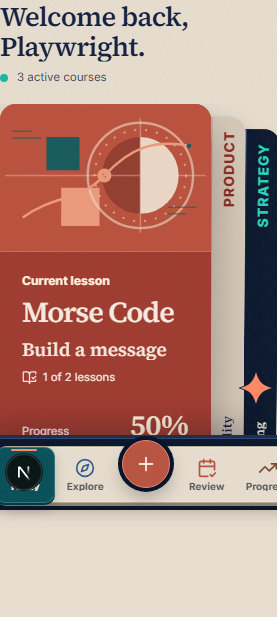
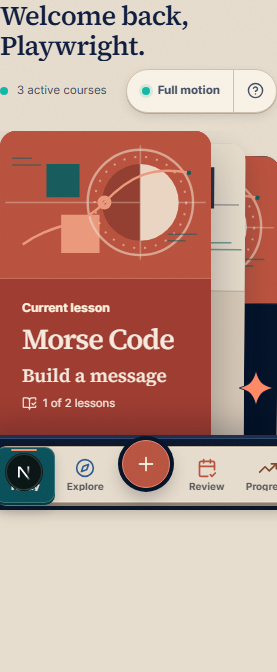
fix: keep full course cards visible

diff --git a/tests/app-shell.spec.ts b/tests/app-shell.spec.ts
@@ -515,7 +515,6 @@ test.describe("desktop application shell", () => {
       const style = getComputedStyle(card);
       const matrix = new DOMMatrixReadOnly(style.transform);
       const face = card.querySelector<HTMLElement>(".course-deck-card-face");
-      const spine = card.querySelector<HTMLElement>(".course-deck-spine");
       return {
         id: (card as HTMLElement).dataset.courseId ?? "",
         position: Number((card as HTMLElement).dataset.position),
@@ -527,7 +526,7 @@ test.describe("desktop application shell", () => {
         visibility: style.visibility,
         zIndex: Number(style.zIndex),
         scale: Math.hypot(matrix.a, matrix.b),
-        spineVisibility: spine ? getComputedStyle(spine).visibility : "hidden",
+        hasSpine: Boolean(card.querySelector(".course-deck-spine")),
         hasFullFace: Boolean(
           face?.querySelector(".course-deck-cover")
           && face.querySelector(".course-deck-card-copy h2")
@@ -566,9 +565,13 @@ test.describe("desktop application shell", () => {
       hasCourseTitle: Boolean(card.querySelector(".course-deck-card-copy h2")),
       hasProgress: Boolean(card.querySelector(".course-deck-progress")),
       hasContinue: Boolean(card.querySelector("a.course-deck-primary")),
+      hasSpine: Boolean(card.querySelector(".course-deck-spine")),
+      titleWritingMode: getComputedStyle(card.querySelector<HTMLElement>(".course-deck-card-copy h2")!).writingMode,
     })));
     expect(fullCardFaces).toHaveLength(3);
     expect(fullCardFaces.every((card) => card.hasCover && card.hasCourseTitle && card.hasProgress && card.hasContinue)).toBe(true);
+    expect(fullCardFaces.every((card) => !card.hasSpine && card.titleWritingMode === "horizontal-tb")).toBe(true);
+    await expect(page.locator(".course-deck-spine")).toHaveCount(0);
     const pile = await inspectPile();
     expect(pile).toHaveLength(3);
     expect(pile[0].left).toBeLessThan(pile[1].left);
@@ -675,7 +678,7 @@ test.describe("desktop application shell", () => {
       expect(incomingNextCard?.zIndex).toBe(3);
       expect(outgoingNextCard?.opacity ?? 1).toBeLessThan(0.99);
       expect(outgoingNextCard?.scale ?? 1).toBeLessThan(0.995);
-      expect(incomingNextCard?.spineVisibility).toBe("hidden");
+      expect(incomingNextCard?.hasSpine).toBe(false);
       expect(incomingNextCard?.hasFullFace).toBe(true);
       await expectDeckSelection(0);
       if (process.env.CAPTURE_DASHBOARD === "1" && viewport.width === 1366) {
@@ -700,6 +703,9 @@ test.describe("desktop application shell", () => {
       await page.evaluate(() => new Promise<void>((resolve) => requestAnimationFrame(() => requestAnimationFrame(() => resolve()))));
       await expect(page.locator(".course-deck-viewport")).toHaveAttribute("data-direction", "previous");
       await expectDeckSelection(1);
+      const heldPrevious = await decisionCard.boundingBox();
+      if (!heldPrevious) throw new Error("Course Deck backward-held card is not measurable.");
+      expect(Math.abs((heldPrevious.x - decisionBox.x) - (decisionBox.width * 0.15)), JSON.stringify({ decisionBox, heldPrevious, viewport })).toBeLessThan(6);
       const previousLayers = await inspectPaintedPile();
       expectDistinctOverlapLayers(previousLayers);
       expect(previousLayers.find((card) => card.id === "decision-shell-course")?.zIndex).toBe(3);
@@ -712,12 +718,16 @@ test.describe("desktop application shell", () => {
       expectDistinctOverlapLayers(previousHandoffLayers);
       const outgoingPreviousCard = previousHandoffLayers.find((card) => card.id === "decision-shell-course");
       const incomingPreviousCard = previousHandoffLayers.find((card) => card.id === "morse-shell-course");
-      expect(outgoingPreviousCard?.zIndex).toBe(0);
+      expect(outgoingPreviousCard?.zIndex).toBe(2);
       expect(incomingPreviousCard?.zIndex).toBe(3);
-      expect(outgoingPreviousCard?.opacity ?? 1).toBeLessThan(0.99);
-      expect(outgoingPreviousCard?.scale ?? 1).toBeLessThan(0.995);
-      expect(incomingPreviousCard?.spineVisibility).toBe("hidden");
+      expect(outgoingPreviousCard?.opacity ?? 0).toBeGreaterThan(0.99);
+      expect(Math.abs((outgoingPreviousCard?.scale ?? 0) - 1)).toBeLessThan(0.005);
+      expect(outgoingPreviousCard?.left ?? 0).toBeGreaterThan(incomingPreviousCard?.left ?? Number.POSITIVE_INFINITY);
+      expect(incomingPreviousCard?.hasSpine).toBe(false);
       expect(incomingPreviousCard?.hasFullFace).toBe(true);
+      if (process.env.CAPTURE_DASHBOARD === "1" && viewport.width === 1366) {
+        await page.screenshot({ path: ".impeccable/review/course-deck-stack-motion-previous-desktop.png", fullPage: true });
+      }
       await page.mouse.up();
       await waitForDeckToSettle(page);
       await expectDeckSelection(0);
@@ -1090,34 +1100,37 @@ test.describe("mobile application shell", () => {
       await expect(page.getByRole("button", { name: "Show next active course" })).toBeVisible();
       await expect(page.locator(".course-deck-card[data-position='1']")).toBeVisible();
       await expect(page.locator(".course-deck-card[data-position='2']")).toBeVisible();
-      const spineMetrics = await page.locator(".course-deck-card.is-visible").evaluateAll((cards) => {
+      const fullCardMetrics = await page.locator(".course-deck-card.is-visible").evaluateAll((cards) => {
         const sortedCards = cards
           .map((card) => ({ element: card as HTMLElement, position: Number((card as HTMLElement).dataset.position) }))
           .sort((first, second) => first.position - second.position);
-        return sortedCards.slice(1).map(({ element, position }, index) => {
-          const previousRect = sortedCards[index].element.getBoundingClientRect();
+        const activeWidth = sortedCards[0].element.offsetWidth;
+        const activeHeight = sortedCards[0].element.offsetHeight;
+        return sortedCards.map(({ element, position }, index) => {
+          const previousRect = index > 0 ? sortedCards[index - 1].element.getBoundingClientRect() : null;
           const cardRect = element.getBoundingClientRect();
-          const spine = element.querySelector<HTMLElement>(".course-deck-spine")!;
-          const title = spine.querySelector<HTMLElement>("strong")!;
-          const spineRect = spine.getBoundingClientRect();
-          const titleRect = title.getBoundingClientRect();
+          const face = element.querySelector<HTMLElement>(".course-deck-card-face")!;
+          const title = face.querySelector<HTMLElement>(".course-deck-card-copy h2")!;
           const titleStyle = getComputedStyle(title);
           return {
             position,
-            startsInExposedStrip: spineRect.left >= previousRect.right - 6,
-            containedInCard: spineRect.right <= cardRect.right + 1,
-            titleContained: titleRect.left >= spineRect.left - 1
-              && titleRect.right <= spineRect.right + 1
-              && titleRect.top >= spineRect.top - 1
-              && titleRect.bottom <= spineRect.bottom + 1,
+            hasCompleteFace: Boolean(
+              face.querySelector(".course-deck-cover")
+              && face.querySelector(".course-deck-card-copy h2")
+              && face.querySelector(".course-deck-progress")
+              && face.querySelector("a.course-deck-primary"),
+            ),
+            hasSpine: Boolean(element.querySelector(".course-deck-spine")),
+            sameDimensions: Math.abs(element.offsetWidth - activeWidth) < 1 && Math.abs(element.offsetHeight - activeHeight) < 1,
+            exposedWidth: previousRect ? cardRect.right - previousRect.right : cardRect.width,
             writingMode: titleStyle.writingMode,
-            fontSize: Number.parseFloat(titleStyle.fontSize),
           };
         });
       });
-      expect(spineMetrics).toHaveLength(2);
-      expect(spineMetrics.every((metric) => metric.startsInExposedStrip && metric.containedInCard && metric.titleContained), JSON.stringify({ viewport, spineMetrics })).toBe(true);
-      expect(spineMetrics.every((metric) => metric.writingMode === "vertical-rl" && metric.fontSize >= 12), JSON.stringify({ viewport, spineMetrics })).toBe(true);
+      expect(fullCardMetrics).toHaveLength(3);
+      expect(fullCardMetrics.every((metric) => metric.hasCompleteFace && !metric.hasSpine && metric.sameDimensions), JSON.stringify({ viewport, fullCardMetrics })).toBe(true);
+      expect(fullCardMetrics.every((metric) => metric.writingMode === "horizontal-tb"), JSON.stringify({ viewport, fullCardMetrics })).toBe(true);
+      expect(fullCardMetrics.slice(1).every((metric) => metric.exposedWidth >= 28), JSON.stringify({ viewport, fullCardMetrics })).toBe(true);
 
       const actionMetrics = await page.locator(".course-deck-card.is-active").evaluate((card) => {
         const copy = card.querySelector<HTMLElement>(".course-deck-card-copy")!;
@@ -1152,10 +1165,6 @@ test.describe("mobile application shell", () => {
 
       const sparkBox = await page.getByRole("button", { name: "Open Support Center" }).boundingBox();
       const controlsBox = await page.locator(".course-deck-controls").boundingBox();
-      const spineTitleBoxes = await page.locator(".course-deck-card.is-visible .course-deck-spine strong").evaluateAll((titles) => titles.map((title) => {
-        const rect = title.getBoundingClientRect();
-        return { x: rect.x, y: rect.y, width: rect.width, height: rect.height };
-      }));
       expect(sparkBox).not.toBeNull();
       expect(controlsBox).not.toBeNull();
       const overlapsControls = (sparkBox?.x ?? 0) < (controlsBox?.x ?? 0) + (controlsBox?.width ?? 0)
@@ -1164,12 +1173,6 @@ test.describe("mobile application shell", () => {
         && (sparkBox?.y ?? 0) + (sparkBox?.height ?? 0) > (controlsBox?.y ?? 0);
       expect(overlapsControls).toBe(false);
       expect((sparkBox?.x ?? 0) - ((controlsBox?.x ?? 0) + (controlsBox?.width ?? 0))).toBeGreaterThanOrEqual(8);
-      expect(spineTitleBoxes.every((title) => !(
-        (sparkBox?.x ?? 0) < title.x + title.width
-        && (sparkBox?.x ?? 0) + (sparkBox?.width ?? 0) > title.x
-        && (sparkBox?.y ?? 0) < title.y + title.height
-        && (sparkBox?.y ?? 0) + (sparkBox?.height ?? 0) > title.y
-      )), JSON.stringify({ viewport, sparkBox, spineTitleBoxes })).toBe(true);
       expect((await new AxeBuilder({ page }).include(".course-deck-section").analyze()).violations).toEqual([]);
       await expectNoHorizontalPageOverflow(page);
     }

diff --git a/src/components/CourseDeck.tsx b/src/components/CourseDeck.tsx
@@ -82,7 +82,6 @@ interface CourseDeckCardProps {
   direction: CycleDirection | null;
   motionState: MotionState;
   reducedMotion: boolean;
-  onNext: () => void;
   onDragStart: (pointerId: number | null) => void;
   onDragMove: (info: PanInfo) => void;
   onDragEnd: (info: PanInfo) => void;
@@ -162,7 +161,6 @@ function CourseDeckCard({
   direction,
   motionState,
   reducedMotion,
-  onNext,
   onDragStart,
   onDragMove,
   onDragEnd,
@@ -189,7 +187,10 @@ function CourseDeckCard({
     if (reducedMotion) return baseX;
     const progress = progressFor(value);
     const activeDirection = effectiveDirection(value);
-    if (active) return value;
+    if (active) {
+      if (activeDirection === "previous") return Math.min(Math.max(value, 0), geometry.stepX);
+      return value;
+    }
     if (activeDirection === "next") {
       if (position === 1) return geometry.stepX * (1 - progress);
       if (position === 2) return geometry.stepX * (2 - progress);
@@ -206,7 +207,7 @@ function CourseDeckCard({
     if (reducedMotion) return baseY;
     const progress = progressFor(value);
     const activeDirection = effectiveDirection(value);
-    if (active) return geometry.stepY * 0.85 * progress;
+    if (active) return geometry.stepY * (activeDirection === "previous" ? 1 : 0.85) * progress;
     if (activeDirection === "next") {
       if (position === 1) return geometry.stepY * (1 - progress);
       if (position === 2) return geometry.stepY * (2 - progress);
@@ -223,7 +224,10 @@ function CourseDeckCard({
     if (reducedMotion) return baseRotation;
     const progress = progressFor(value);
     const activeDirection = effectiveDirection(value);
-    if (active) return (value / Math.max(1, geometry.travel)) * 1.35;
+    if (active) {
+      if (activeDirection === "previous") return geometry.rotationStep * progress;
+      return (value / Math.max(1, geometry.travel)) * 1.35;
+    }
     if (activeDirection === "next") {
       if (position === 1) return geometry.rotationStep * (1 - progress);
       if (position === 2) return geometry.rotationStep * (2 - progress);
@@ -240,6 +244,7 @@ function CourseDeckCard({
     const progress = progressFor(value);
     const activeDirection = effectiveDirection(value);
     if (active) {
+      if (activeDirection === "previous") return 1;
       if (!activeDirection) return 1;
       const concealProgress = clamp((progress - DECK_HANDOFF_PROGRESS) / (1 - DECK_HANDOFF_PROGRESS), 0, 1);
       return 1 - (concealProgress * 0.92);
@@ -260,11 +265,14 @@ function CourseDeckCard({
     const progress = progressFor(value);
     const activeDirection = effectiveDirection(value);
     const handedOff = progress >= DECK_HANDOFF_PROGRESS;
-    if (active) return handedOff && activeDirection ? 0 : 3;
+    if (active) {
+      if (!handedOff || !activeDirection) return 3;
+      return activeDirection === "previous" ? 2 : 0;
+    }
     if (activeDirection === "previous") {
       if (previousTarget) return handedOff ? 3 : 2;
-      if (position === 1) return handedOff ? 2 : 1;
-      if (position === 2) return handedOff ? 1 : 0;
+      if (position === 1) return 1;
+      if (position === 2) return 0;
       return -1;
     }
     if (position === 1) return handedOff && activeDirection === "next" ? 3 : 2;
@@ -276,7 +284,7 @@ function CourseDeckCard({
     if (reducedMotion) return 1;
     const progress = progressFor(value);
     const activeDirection = effectiveDirection(value);
-    if (active) return 1 - (0.035 * progress);
+    if (active) return activeDirection === "previous" ? 1 : 1 - (0.035 * progress);
     if (activeDirection === "next" && position === 1) return 0.98 + (0.02 * progress);
     if (activeDirection === "previous" && previousTarget) return 0.98 + (0.02 * progress);
     return 1;
@@ -288,16 +296,8 @@ function CourseDeckCard({
     dragControls.start(event, { snapToCursor: false });
   };
 
-  const spineContent = (
-    <>
-      <small>{item.category ?? "Course"}</small>
-      <strong>{item.topic}</strong>
-      <i aria-hidden="true" />
-    </>
-  );
-
   const motionStyle = geometry.ready
-    ? { x: active ? dragX : cardX, y: cardY, rotate: cardRotation, scale: cardScale, opacity: cardOpacity, zIndex: cardZIndex }
+    ? { x: cardX, y: cardY, rotate: cardRotation, scale: cardScale, opacity: cardOpacity, zIndex: cardZIndex }
     : undefined;
 
   return (
@@ -354,22 +354,6 @@ function CourseDeckCard({
           </div>
         </div>
       </div>
-
-      {!active && (position === 1 ? (
-        <m.button
-          className="course-deck-spine"
-          type="button"
-          tabIndex={-1}
-          aria-label={`Bring ${item.topic} to the front`}
-          onClick={onNext}
-        >
-          {spineContent}
-        </m.button>
-      ) : (
-        <m.div className="course-deck-spine" aria-hidden="true">
-          {spineContent}
-        </m.div>
-      ))}
     </m.div>
   );
 }
@@ -517,12 +501,14 @@ export default function CourseDeck({ items, firstName, canCreateCourses }: Cours
   }, [updateMotionState]);
 
   const handleDragMove = useCallback((info: PanInfo) => {
-    if (motionStateRef.current !== "dragging" || Math.abs(info.offset.x) < 3) return;
+    if (motionStateRef.current !== "dragging") return;
+    dragX.set(info.offset.x);
+    if (Math.abs(info.offset.x) < 3) return;
     const nextDirection = info.offset.x < 0 ? "next" : "previous";
     if (directionRef.current === nextDirection) return;
     directionRef.current = nextDirection;
     setDirection(nextDirection);
-  }, []);
+  }, [dragX]);
 
   const finishDrag = useCallback((reportedOffset = 0, releaseVelocity = 0) => {
     if (motionStateRef.current !== "dragging") return;
@@ -786,7 +772,6 @@ export default function CourseDeck({ items, firstName, canCreateCourses }: Cours
                   direction={direction}
                   motionState={motionState}
                   reducedMotion={reducedMotion}
-                  onNext={next}
                   onDragStart={handleDragStart}
                   onDragMove={handleDragMove}
                   onDragEnd={handleDragEnd}

diff --git a/src/app/globals.css b/src/app/globals.css
@@ -1911,7 +1911,6 @@ html[data-environment="qa"] .environment-pill { display: inline-flex; }
 .course-deck-viewport[data-motion-state="dragging"] { cursor: grabbing; }
 .course-deck-stage { position: relative; width: 100%; height: clamp(510px, 61vh, 620px); touch-action: pan-y pinch-zoom; }
 .course-deck-card {
-  --deck-spine-width: 30.645%;
   --deck-x: 0px;
   --deck-y: 0px;
   --deck-rotation: 0deg;
@@ -1970,7 +1969,6 @@ html[data-environment="qa"] .environment-pill { display: inline-flex; }
 .course-deck-section.is-single .course-deck-card { width: 100%; }
 .course-deck-viewport:not([data-motion-state="idle"]) .course-deck-card { will-change: transform, opacity; }
 .course-deck-viewport:not([data-motion-state="idle"]) .course-deck-card-face { pointer-events: none; }
-.course-deck-viewport:not([data-motion-state="idle"]) .course-deck-spine { visibility: hidden; opacity: 0 !important; pointer-events: none; }
 .course-deck-cover { position: relative; min-height: 0; overflow: hidden; border-bottom: 1px solid var(--deck-rule); }
 .course-deck-cover img { -webkit-user-drag: none; }
 .course-deck-cover .course-banner::after { content: none; }
@@ -1991,32 +1989,6 @@ html[data-environment="qa"] .environment-pill { display: inline-flex; }
 .course-deck-primary { margin-top: 22px; background: var(--brand-coral); color: var(--brand-navy); box-shadow: 0 8px 18px rgb(2 8 23 / 0.2); }
 .course-deck-primary:hover { background: #FF9D7F; }
 .course-deck-card-action .course-deck-primary { width: 100%; }
-.course-deck-spine {
-  position: absolute;
-  z-index: 4;
-  inset: 0 0 0 auto;
-  width: var(--deck-spine-width);
-  min-width: 0;
-  display: flex;
-  flex-direction: column;
-  align-items: center;
-  gap: 12px;
-  overflow: hidden;
-  border: 0;
-  border-left: 1px solid var(--deck-rule);
-  background-color: var(--deck-paper);
-  background-image: var(--grain-cover);
-  padding: 18px 10px;
-  color: var(--deck-ink);
-  font: inherit;
-  text-align: left;
-}
-button.course-deck-spine { cursor: pointer; }
-.course-deck-spine small,
-.course-deck-spine strong { writing-mode: vertical-rl; text-orientation: mixed; transform: rotate(180deg); }
-.course-deck-spine small { flex: 0 0 auto; overflow: hidden; color: var(--deck-accent); font-size: 0.64rem; font-weight: 780; letter-spacing: 0.075em; text-overflow: ellipsis; text-transform: uppercase; white-space: nowrap; }
-.course-deck-spine strong { flex: 1 1 auto; max-height: calc(100% - 98px); overflow: hidden; color: var(--deck-ink); font-family: var(--font-editorial); font-size: clamp(0.86rem, 1.35vw, 1.08rem); font-weight: 580; line-height: 1.05; text-overflow: ellipsis; white-space: nowrap; }
-.course-deck-spine i { flex: 0 0 auto; width: 2px; height: 44px; background: var(--deck-accent); }
 .course-deck-controls { min-height: 48px; display: flex; align-items: center; justify-content: center; gap: 14px; margin-top: 2px; }
 .course-deck-controls > button { width: 44px; height: 44px; display: grid; place-items: center; border: 1px solid var(--control-outline); border-radius: 50%; background: var(--surface); color: var(--ink); cursor: pointer; box-shadow: var(--shadow-control); transition: background var(--motion-state) var(--ease-out), border-color var(--motion-state) var(--ease-out), transform var(--motion-feedback) var(--ease-out); }
 .course-deck-controls > button:hover { border-color: var(--brand-teal); background: var(--surface-active); }
@@ -4382,8 +4354,9 @@ button.course-deck-spine { cursor: pointer; }
   .motion-preference-tooltip { right: 0; }
   .course-deck-viewport { min-height: 0; height: auto; }
   .course-deck-stage { min-height: 0; height: auto; display: grid; padding-bottom: 24px; }
-  .course-deck-card { --deck-spine-width: 15.789%; width: 76%; height: 100%; grid-area: 1 / 1; }
-  .course-deck-card.is-active { position: relative; height: auto; align-self: stretch; }
+  .course-deck-card { width: 76%; height: auto; grid-area: 1 / 1; align-self: stretch; }
+  .course-deck-card.is-visible { position: relative; }
+  .course-deck-card.is-drag-buffer { height: calc(100% - 24px); }
   .course-deck-card-face { min-height: 100%; height: auto; grid-template-rows: clamp(148px, 43vw, 168px) auto; }
   .course-deck-card[data-position="1"] { --deck-x: 15.789%; --deck-y: 12px; --deck-rotation: 0.38deg; }
   .course-deck-card[data-position="2"] { --deck-x: 31.578%; --deck-y: 24px; --deck-rotation: 0.76deg; }
@@ -4399,10 +4372,6 @@ button.course-deck-spine { cursor: pointer; }
   .course-deck-card-action { width: 100%; align-self: stretch; margin-top: 18px; }
   .course-deck-progress { margin-top: 6px; }
   .course-deck-card-action .course-deck-primary { min-height: 44px; margin-top: 12px; scroll-margin-bottom: calc(88px + env(safe-area-inset-bottom)); }
-  .course-deck-spine { gap: 9px; padding: 14px 5px 76px; }
-  .course-deck-spine small { font-size: 0.62rem; }
-  .course-deck-spine strong { flex: 0 1 auto; max-height: calc(100% - 118px); font-size: 0.8rem; }
-  .course-deck-spine i { height: 30px; margin-top: auto; }
   .course-deck-controls { margin: 8px calc(72px + env(safe-area-inset-right)) 0 0; }
   .course-deck-controls > div { min-width: 0; flex: 1; flex-direction: column; gap: 1px; }
   .course-deck-controls strong { max-width: 26ch; }
